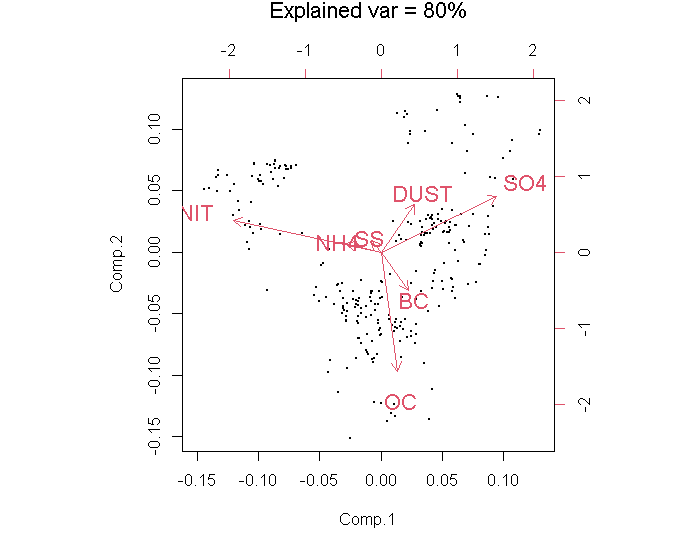
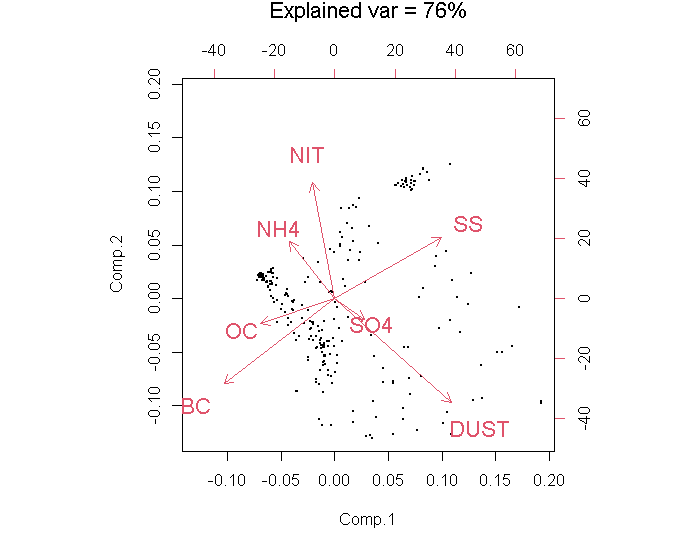
PC regression
Addition of a meta-regression with principal components of compositions.

Fixed an error in the code for the PCA as well.

diff --git a/README.md b/README.md
@@ -18,11 +18,11 @@ Below is the same plot but showing proportions for all years. Overall, there is 
 
 ![PropCountries](https://github.com/PierreMasselot/MCC-HetPoll/blob/master/Results/1b_CompCountries.png)
 
-The following plot shows the variation matrix of constituents proportion (averaged by city). This matrix computes the variance of the log-ratios between each constituent. When this variance is high, this means that the two constituents tend to vary in opposite directions (when one increases, it lowers down the proportion of the other). DUST and SS seem to vary a lot compared to other constituents. This may be explained by their high proportion of zero values, meaning that when one of them is present, all other constituents decrease. 
+The following plot shows the variation matrix of constituents proportion (averaged by city). This matrix computes the variance of the log-ratios between each constituent. When this variance is high, this means that the two constituents tend to vary in opposite directions (when one increases, it lowers down the proportion of the other). DUST and SS seem to vary a lot compared to other constituents, especially compared to NIT for DUST and to BC for SS. This may be explained by their high proportion of zero values, meaning that when one of them is present, all other constituents decrease. In addition, NIT and BC also seem to vary in opposite directions.
 
 ![VariationMat](https://github.com/PierreMasselot/MCC-HetPoll/blob/master/Results/1b_VariationMatrix.png)
 
-It can also be interesting to do a PCA on proportions. Mainly the two "organic" components (BC and OC) have the same direction, so have NIT and NH4 which are two of the three secondary inorganix aerosols.
+It can also be interesting to do a PCA on proportions. The first component seem to mainly contrast SS and DUST to OC and BC. The second contrasts DUST and BC to NH4, NIT and SS.
 
 ![PCA](https://github.com/PierreMasselot/MCC-HetPoll/blob/master/Results/1b_PCAbiplot.png)
 
@@ -56,3 +56,7 @@ The fourth value is the effect of high proportion of secondary inorganic compone
 Next, we consider an aggregated composition in which components are gathered in three groups: secondary inorganic pollutants (INOR with SO4, NIT and NH4), organic pollutants (BC and OM) and natural particulate matter (SS and DUST). We want to estimate the effect modification of an increase of each of the two formers compared to the natural group as a baseline. Thus the meta-regression is performed here through the addtive log-ratio transform (ALR) of Aitchison, that divide each component by the last one (natural then) and compute the log. The forestplot is shown below and doesn't suggest any significant effect.
 
 ![metaAgg](https://github.com/PierreMasselot/MCC-HetPoll/blob/master/Results/3c_forestplot_aggregated.png)
+
+Below is the result of regression with the two PCA component described above. And the negative coefficient of the 1st score suggests that lower proportions of SS and DUST compared to BC, OC and NH4 may actually lead to increased risks.
+
+![metaPCA](https://github.com/PierreMasselot/MCC-HetPoll/blob/master/Results/3c_forestplot_pca.png)
